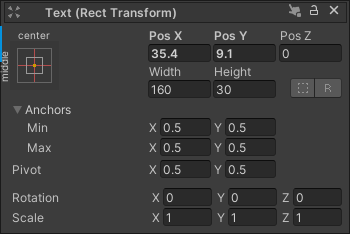
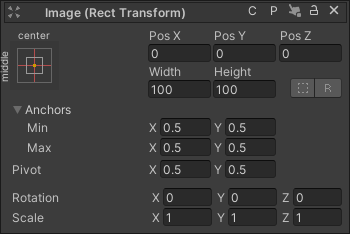
docs: 文档新增组件窗口复制粘贴功能

diff --git a/README.md b/README.md
@@ -100,6 +100,11 @@
 ### 脚本组件窗口
 ![ComponentWindow](./Images/ComponentWindow.png)
 - 脚本组件窗口用于快捷编辑对象上的某个指定组件内容，布局和 Inspector 中组件的内容的基本一致。顶部标题栏的右侧按钮说明如下：
+    - 复制按钮 ![Copy](./Images/Copy.png)
+        - 点击将当前组件的数据复制到粘贴板中。
+    - 粘贴按钮 ![Paste](./Images/Paste.png)
+        - 点击将粘贴板中的组件数据应用到当前组件上。
+        - ![Copy And Paste](./Images/CopyAndPaste.gif)
     - 选择按钮 ![Finger](./Images/Finger.png)
         - 点击选中 GameObject 对象。
     - 锁定按钮 ![Unlock](./Images/Unlock.png)
